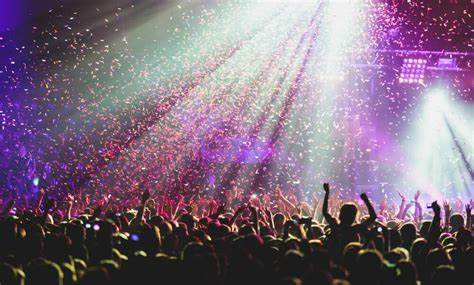
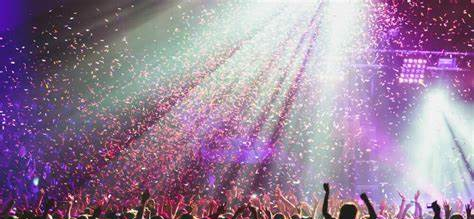
s

diff --git a/src/main/java/GUI/OrganizerLandingController.java b/src/main/java/GUI/OrganizerLandingController.java
@@ -111,7 +111,7 @@ public class OrganizerLandingController {
                 mainLabel.setText(Database.events.get(i).getEventName());
                 switch (Database.events.get(i).getCategory().getType()) {
                     case CategoryType.MUSIC:
-                        Image image = new Image(getClass().getResourceAsStream("/resources/images/music1.png"));
+                        Image image = new Image(getClass().getResourceAsStream("/resources/images/img_3.png"));
                         ImageView imageView = new ImageView(image);
                         imageView.setFitWidth(181);
                         imageView.setFitHeight(160);

diff --git a/src/main/java/GUI/EventViewerController.java b/src/main/java/GUI/EventViewerController.java
@@ -93,7 +93,7 @@ public class EventViewerController {
 
                 switch (event.getCategory().getType()){
                     case MUSIC:
-                        Image image = new Image(getClass().getResourceAsStream("/resources/images/music1.png"));
+                        Image image = new Image(getClass().getResourceAsStream("/resources/images/img_3.png"));
                         background.setImage(image);
                         break;
                     case SPORTS:
